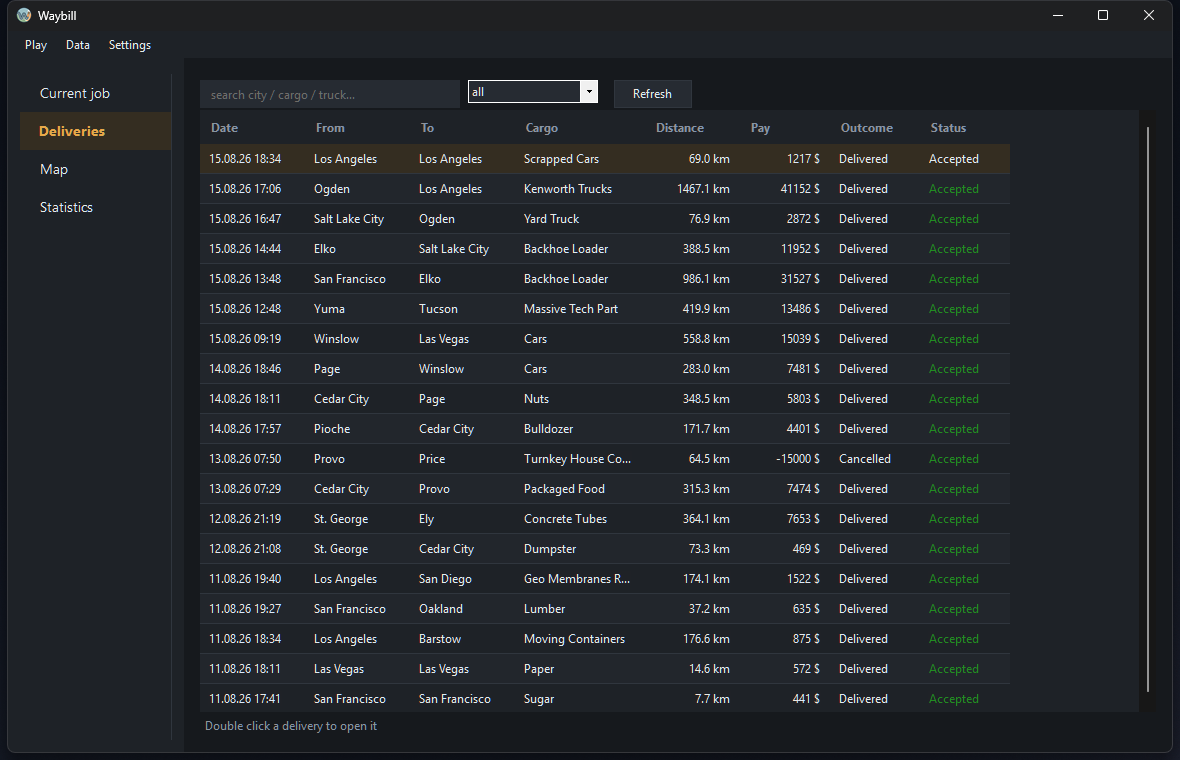
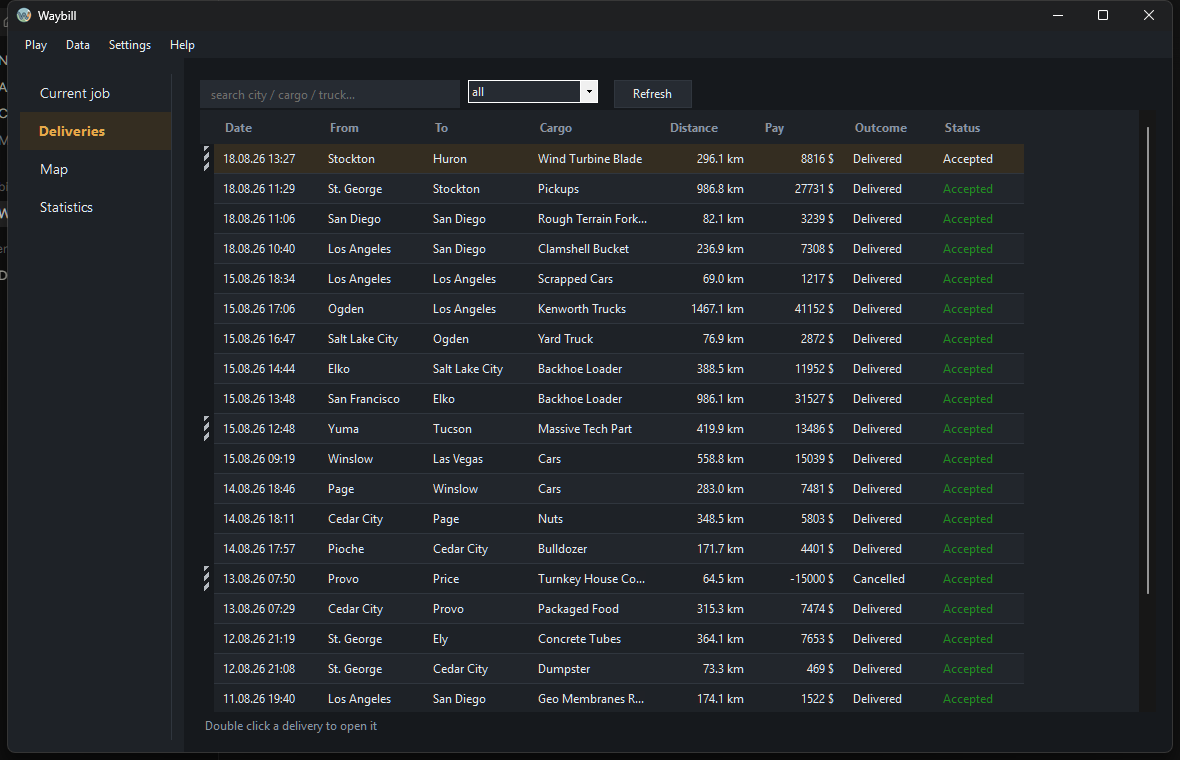
Write down everything that was only drawn
The documentation stopped at the exported sheet, and a good deal has gone in
since that only the pixels knew about: the signs on the timeline and the crash
fine folded into the collision, trailer names read out of the identifier, the
stripes on an oversize load, the eyes on the map layers, the order the list is
left in, and the rule that nothing before the load is on gets recorded at all.

The screenshots were taken before most of it, so they are taken again, off the
same real database. The card and the route panel now show a delivery with
something on its timeline, and the coupled set shows a triple, which is what
those pictures were there to demonstrate in the first place.

diff --git a/README.md b/README.md
@@ -76,6 +76,9 @@ Every state, flag and anomaly is listed with its meaning in
 * Says which market a job came from, and whether the trailer was your own
 * Explains every verdict in words rather than leaving a label on the row
 * Draws where each delivery went, with every fine and collision marked on it
+* Marks each thing that happened with a sign of its own, and explains every sign
+* Names a trailer for what it is instead of for the file it came out of
+* Marks an oversize load as one, on its card and in the list
 * Draws the whole history as one map, built entirely from your own drives
 * Writes a delivery out as a printable A4 waybill, route and stamp included
 * Keeps the driving between jobs too, as distance and as lines on the map
@@ -125,7 +128,9 @@ Start order does not matter, the app connects to the game as soon as it finds it
 Jobs are detected and saved without any input.
 
 Four pages down the left. *Deliveries* is the history, with search, a filter and
-the verdict on each drive.
+the verdict on each drive. Clicking a column heading sorts by it, and the order
+chosen is kept: opening a delivery and coming back leaves the list the way it was
+left rather than back on date order.
 
 *Current job* is what the engine sees right now: the route, the cargo, how far
 along the drive is, and a log of what has happened, each entry with its figure,
@@ -146,6 +151,34 @@ and worth nothing when nothing did, so they stay out of the way until asked for.
 
 ![The statistics page](assets/statistics.png)
 
+Distance driven with nothing on the hook has its own tile there, beside the
+deliveries rather than folded into them, and the delivery figure carries both
+together underneath it.
+
+## What the window says without words
+
+A good deal of it is drawn rather than written. The dot beside a delivery is its
+verdict, the colour of a route is speed, stripes down the side of a card mean an
+oversize load, and each thing that happened on a drive gets a sign of its own on
+the timeline: a burst for an impact, a dial for a speeding fine, a note for any
+other one, a drop, a moon, a hull, a barrier, two chevrons back for a save
+loaded.
+
+The signs are drawn by the app itself rather than taken from a font, because the
+glyphs for most of them live in fonts that may not be installed, and a missing one
+comes out as an empty box exactly where the meaning was.
+
+*Help → Legend* names all of them in one window, along with the marks on the map
+and the two shades in the progress bar. The samples in it are painted by the same
+code the rest of the window paints with, so it cannot quietly drift away from what
+it explains.
+
+![Every mark, with what it means](assets/legend.png)
+
+One sign is deliberately missing. A fine for a crash is not listed apart from the
+crash: the game reports both, and two marks a second apart for one moment read as
+two things going wrong. The impact keeps its place and carries the amount.
+
 ## Doubles and triples
 
 The game shows one condition for the whole set however many units are behind the
@@ -155,6 +188,12 @@ The *Trailer* line folds the set away: closed it says what the set is, opened it
 lists every unit in the order they are hitched, with its plate and the damage it
 took. A dolly is named as a dolly, so counting or averaging does not treat the
 converter as cargo capacity, and a trailer you own says so.
+
+A unit you own carries the name you gave it. One handed over with the job has
+none, and the game identifies it by the file it came out of, so
+`blade_hauler.chassis_40x2esii` is read for what it holds: the body type and the
+length, giving *Blade hauler, 40 ft*. That is what a driver would say about it,
+and it is what fits in a column.
 
 ![The coupled set, opened](assets/trailer-chain.png)
 
@@ -174,17 +213,23 @@ Position has been recorded once a second since the first delivery, so every driv
 already had a shape long before anything drew one.
 
 A delivery's card shows its own route, coloured by speed, over every other route
-the profile has driven. Fines, collisions, refuels, rests and the moment the
-trailer was hitched are marked on it, each tied to the position the truck was in
-when it happened. The *Map* page shows the same thing without a delivery singled
-out: every drive of one game at once, where pointing at a route names it and
-clicking one opens its card. It is a second way into the history, since the list
-answers when something was driven and this answers where.
+the profile has driven. Fines, collisions, refuels and rests are marked on it,
+each tied to the position the truck was in when it happened. The *Map* page shows
+the same thing without a delivery singled out: every drive of one game at once,
+where pointing at a route names it and clicking one opens its card. It is a second
+way into the history, since the list answers when something was driven and this
+answers where.
 
 ![The map of everywhere driven](assets/map.png)
 
-Wheel zooms, dragging moves, double clicking fits. Three buttons sit over the top
-right: what to draw, fit the view, and full screen.
+Wheel zooms, dragging moves, double clicking fits. Two buttons sit over the top
+right: what to draw, and fit the view. The eye beside each layer says whether it
+is being drawn, and a layer that is hidden cannot be picked either, so nothing
+opens from a line that is not on the screen. Cities stay visible whatever else is
+turned off, since they are what makes the rest readable.
+
+The same map, smaller, sits in the panel a delivery's card slides out, where a
+third button opens it full screen.
 
 ### There is no real map underneath, on purpose
 
@@ -225,6 +270,11 @@ Whichever it was, the recording usually opens with a drive that is getting to wo
 rather than the consignment moving. That stretch is still drawn, in the same quiet
 style as any other driving off the job, but it belongs to no delivery: it cannot be
 pointed at or opened, and it is not part of the line the delivery owns.
+
+Nothing that happened during it is recorded either. A fine picked up on the way to
+the trailer is not the consignment's history, so the timeline starts where the load
+does, and the hitching itself is not listed on it: it is the first line's own
+beginning, not something that happened along the way.
 
 The kilometres are still counted, and now counted separately. A delivery's card
 shows the two legs on their own line, and the progress bar on *Current job* draws

diff --git a/docs/reference.md b/docs/reference.md
@@ -108,6 +108,17 @@ each thing happened.
 | `trailer_coupled` | | |
 | `cargo_loaded` | | |
 
+A fine with the offence `Crash` is folded into the collision it belongs to rather
+than listed beside it. The game reports both within a second of each other, and
+two marks for one moment read as two things going wrong; the collision keeps its
+place and carries the amount. Both rows stay in the database, so the fine totals
+are unaffected and a reader from outside sees what the game actually said.
+
+The interface draws each type as a sign rather than writing it out, and the same
+sign is used everywhere the type appears. `train` shares the ferry's, being the
+same thing to a driver, and `fine` takes a different one when the offence is
+`Speeding`. *Help → Legend* names them all.
+
 `trailer_coupled` and `cargo_loaded` are the two halves of the load being on, and
 which of them comes last depends on the kind of job:
 
@@ -122,9 +133,16 @@ writes nothing. **The later of whatever was recorded is when the load was on**,
 which covers all three without asking what kind of job it was, and a job that
 recorded neither was loaded and hitched from the start.
 
-Two things read that moment. It is where the map anchors a city, and it is where a
-delivery's own line begins: the map and the exported sheet show the load's journey,
-so getting to the trailer and driving to the dock are not part of it.
+Three things read that moment. It is where the map anchors a city, it is where a
+delivery's own line begins, and it is where the timeline starts: the map, the
+sheet and the list of what happened all show the load's journey, so getting to the
+trailer and driving to the dock are not part of any of them.
+
+**Nothing before it is recorded at all.** A fine picked up on the way out to the
+trailer, or a refuel taken before the dock, is not the consignment's history.
+`trailer_coupled` and `cargo_loaded` are written, because that is how the moment
+is found, but neither is shown: they mark the beginning rather than something that
+happened along the way.
 
 The map still draws that stretch, in the quieter style it uses for any other
 driving off the job, because the driver went that way and the roads are real. It
@@ -202,6 +220,25 @@ handed over with the job is named for its type and has none.
 
 `trailer_damage_pct` stays the worst across the set, which is the set's condition
 and what the game itself shows.
+
+The name a unit is shown under is worked out for display only; nothing about it is
+stored, so improving it improves every past delivery at once. An owned unit uses
+the name its driver gave it. One handed over with the job has none, so the
+identifier is read instead: `blade_hauler.chassis_40x2esii` gives its body type
+and the length in feet, shown as *Blade hauler, 40 ft*. A body type beginning with
+an underscore is the game's own marker rather than a description and is skipped,
+which is what keeps `_oversize` out of the name. A dolly says it is a dolly.
+
+## Special transport
+
+Column `special_transport`. True when the job was an oversize load, which the game
+reports on the job itself.
+
+It changes nothing about the verdict, the distance or the pay. It is shown because
+it changes what the drive was: an escorted convoy at half the usual speed is not
+the same delivery as the same route with a curtainsider. The interface marks it
+with hazard stripes, on the card and in the list, and the exported sheet carries a
+band across its head.
 
 ## Job market
 

diff --git a/assets/README.md b/assets/README.md
@@ -11,12 +11,15 @@
 | `map.png` | The map page, with one route lit under the pointer. |
 | `statistics.png` | The statistics page. |
 | `waybill-sheet.png` | A delivery exported as an A4 sheet. |
+| `legend.png` | Every mark the window uses, with what it means. |
 
 Screenshots are taken at 1180x760, which is roughly the window's default size and
 wide enough for the delivery list to show most of its columns without scrolling.
 `waybill-sheet.png` is the exception: it is not a screenshot but a real export,
 downscaled from the 300 dpi original to 1000 px tall, so it keeps A4's proportions
-rather than the window's.
+rather than the window's. `legend.png` is the other: it is a dialog, so it is its
+own width, and it was stretched tall enough to show every entry at once rather
+than shown at its default size with half the list below the fold.
 Each is named for what it shows rather than for where it happens to appear, so
 moving one around the README does not leave the name lying.
 

diff --git a/docs/roadmap.md b/docs/roadmap.md
@@ -365,6 +365,11 @@ rather than only tested.
   seven trailer units, while a file is a fixed size by definition and can run onto
   a second sheet
 - Which market a job came from, and whether the trailer was the driver's own
+- Driving between jobs kept as well, counted apart from the deliveries and drawn
+  in a quieter line, so the map fills in without the totals being flattered
+- A legend, because most of what the window says it says by drawing: the verdict
+  dots, the signs on the timeline, the colour of a route, the stripes on an
+  oversize load. None of that was in the plan, and all of it needed explaining
 - Discord Rich Presence, over the local pipe, no account and nothing sent anywhere
 - Export to CSV and JSON, backup and restore, TrucksBook import
 - Rebuild from the raw recordings, which is what makes every judgement above
